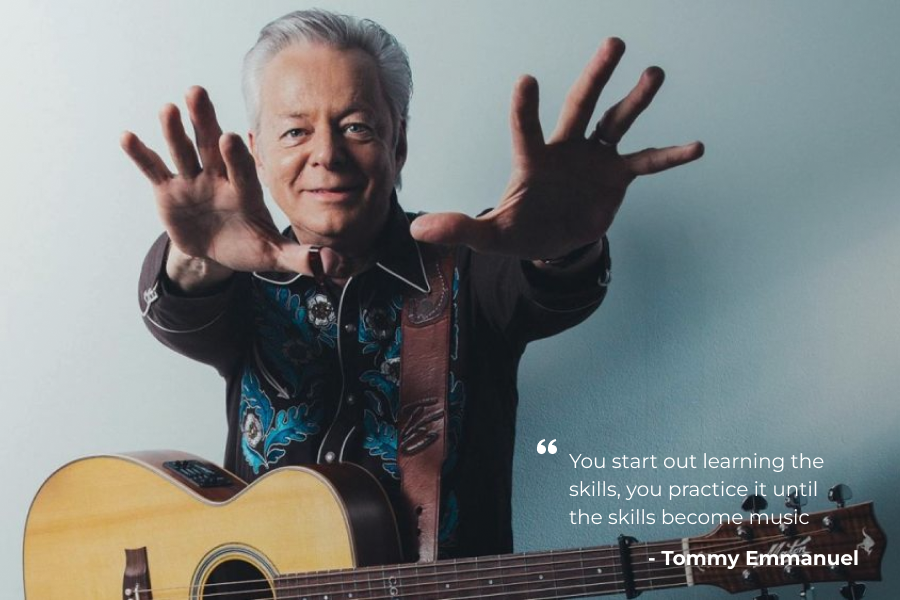
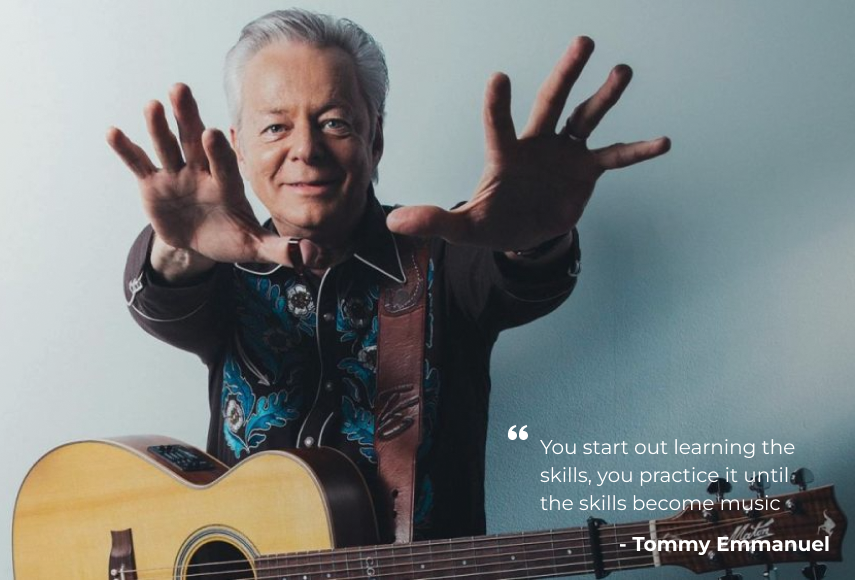
chore: slider in progress

diff --git a/static/styles/style.css b/static/styles/style.css
@@ -138,7 +138,7 @@ header {
 .welcome {
   display: grid;
   grid-template-columns: repeat(12, 1fr);
-  column-gap: 0 24px;
+  column-gap: 24px;
   align-items: center;
   padding-top: 24px;
   padding-bottom: 24px;
@@ -146,7 +146,6 @@ header {
 
 .welcome__leftside {
   grid-column: 1 / 5;
-  grid-row: 2 / 3;
   align-self: start;
   margin-right: 62px;
   font-family: 'Montserrat';
@@ -188,20 +187,49 @@ header {
   background-color: var(--light-orange);
 }
 
+/* <- WELCOME SECTION */
+
+/* SLIDER -> */
+
 .slider {
   grid-column: 5 / 13;
-  grid-row: 2 / 3;
-  align-self: start;
-  justify-self: right;
+  height: 580px;
+  padding: 24px;
+  border-radius: 30px;
+  background-image: url("../images/sld-tommy1.png");
+  background-repeat: no-repeat;
 }
 
-.slider > img {
-  border-radius: 30px;
-  max-width: 100%;
-  max-height: 100%;
-} 
+.btn-randomize {
+  width: 40px;
+  height: 40px;
+  background-color: var(--black);
+  border-radius: 50%;
+  border: none;
+  background-image: url("../images/dice.png");
+  background-repeat: no-repeat;
+  background-position: center;
+  opacity: 0;
+  transition: opacity 0.3s ease;
+}
 
-/* <- WELCOME SECTION */
+.slider:hover .btn-randomize{
+  opacity: 1.0;
+}
+
+.btn-randomize:hover {
+  filter: brightness(140%);
+  box-shadow: 0 0 4px 0 var(--black);
+}
+
+.btn-randomize:active {
+  filter: none;
+  box-shadow: none;
+}
+
+.
+
+/* <- SLIDER */
 
 /* STUDY SECTION --> */
 

diff --git a/index.html b/index.html
@@ -33,7 +33,7 @@
   </header>
 
   <main>
-    <section class="welcome-section" style="background: #c9af7d;">
+    <section class="welcome-section" style="background: #c9af7d">
       <div class="welcome container">
         <div class="welcome__leftside">
           <p class="welcome__headline">
@@ -48,13 +48,15 @@
           <a href="#" class="cta">LET'S GO</a>
         </div>
         <div class="slider">
-          <img src="static/images/sld-tommy1.png">
+          <button class="btn-randomize"></button>
+          <button class="arrow-left"></button>
+          <button class="arrow-right"></button>
         </div>
       </div>
     </section>
 
     <section class="study-section" style="background: #d7dce4; height: 650px;">
-      <button  class="test-button" onclick="onClickedButton(this)">Click me !</button>
+      <button class="test-button" onclick="onClickedButton(this)">Click me !</button>
       <script src="js/main.js"></script>
     </section>
   </main>
